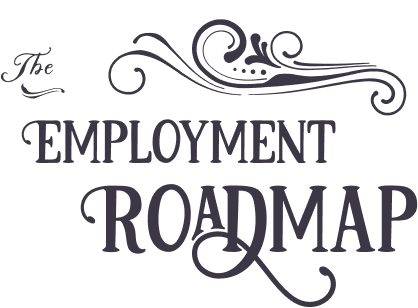
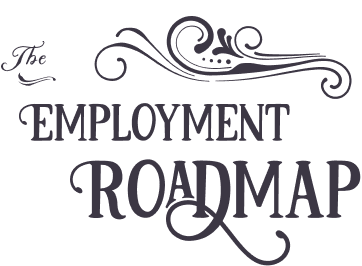
fixed and updated design of milestone map

diff --git a/src/Components/Milestones/MilestoneMap.css b/src/Components/Milestones/MilestoneMap.css
@@ -1,31 +1,13 @@
-.container{
-  /* position:absolute;
-  height: 100%; 
-  width: 100%; */
-}
 .grid-container {
     display: grid;
-    /* grid-template-columns: auto auto auto; */
-    /* grid-template-areas: 'left center right';  */
     grid-template-columns: repeat(3, 1fr);  
     padding: 70px;
-    height: 100vh;  
-    background: rgba(230, 249, 244, 1);
-  }
-  .grid-item {
-    /* border: 1px solid rgba(0, 0, 0, 0.8); */
-    /* padding: 20px;
-    font-size: 30px;
-    text-align: center;
-    position: relative; 
-    left: 5px; 
-    bottom: 10px;  */
-    background: rgba(230, 249, 244, 1);
+    height: 90vh;  
+    background: linear-gradient(180deg, #EFFBFF 0%, #F5F1FF 69.61%, #FFF2F5 100%);
   }
   .map-title {
     grid-area: 2 / 2 / span 2 / span 1; 
   }
-
   #roadmap-title {
     width: fit-content;
     height: fit-content;    
@@ -36,91 +18,73 @@
     right: 0;
     margin: auto;
   }
-  #job-fair {
-    width: fit-content;
-    height: fit-content; 
-    margin-top: -5vh; 
-    margin-left: 8vw; 
+  #assessment {
+    width: fit-content; 
+    height: fit-content;
+    margin-top: -5vh;
+    margin-left: 30vw; 
     position: absolute;
-    /* border: 2px red dotted; */
+  }
+   #online-profile {
+    width: fit-content;
+    height: fit-content;
+    margin-top: -1vh;
+    margin-left: 57vw;
+    position: absolute;
   }
   #training-program {
     width: fit-content; 
     height: fit-content;
-    margin-top: -2vh;
-    margin-left: 30vw; 
+    margin-top: 15vh;
+    margin-left: 65vw; 
     position: absolute;
-    /* border: 2px red dotted; */
   }
   #co-enroll {
     width: fit-content; 
     height: fit-content; 
-    margin-top: -5vh;
-    margin-left: 57vw;
+    margin-top: 40vh;
+    margin-left: 60vw;
     position: absolute;
-    /* border: 2px red dotted;  */
   }
-  #assessment {
-    width: fit-content; 
-    height: fit-content;
-    margin-top: 17vh;  
-    margin-left: -2vw; 
-    position: absolute;
-    /* border: 2px red dotted;  */
-    /* grid-area: left; 
-    margin-left: 20px;
-    margin-right: 20px;
-    margin-top: 100px;
-    margin-bottom: 10px;
-    position: left; 
-    bottom: 100px;
-    right: 10px; */
-  }
-  #hiring-info {
+  #workshop {
     width: fit-content; 
     height: fit-content; 
-    margin-top: 19vh; 
-    margin-left: 65vw;
+    margin-top: 65vh;
+    margin-left: 57vw;
+    position: absolute; 
+  }
+  #internship {
+    width: fit-content;
+    height: fit-content; 
+    margin-top: 65vh; 
+    margin-left: 35vw; 
+    position: absolute; 
+  }
+  #job-fair {
+    width: fit-content;
+    height: fit-content; 
+    margin-top: 75vh; 
+    margin-left: 10vw; 
     position: absolute;
-    /* border: 2px red dotted;  */
   }
   #job-board {
     width: fit-content; 
     height: fit-content; 
     margin-top: 45vh; 
-    margin-left: 3vw;
+    margin-left: 2vw;
     position: absolute; 
-    /* border: 2px red dotted;  */
-  }
-  #internship {
-    width: fit-content;
-    height: fit-content; 
-    margin-top: 43vh; 
-    margin-left: 63vw; 
-    position: absolute; 
-    /* border: 2px red dotted;  */
-  }
-  #workshop {
-    width: fit-content; 
-    height: fit-content; 
-    margin-top: 75vh;
-    margin-left: -2vw;
-    position: absolute; 
-    /* border: 2px red dotted;  */
-  }
-  #online-profile {
-    width: fit-content;
-    height: fit-content;
-    margin-top: 67vh;
-    margin-left: 30vw;
-    position: absolute;
-    /* border: 2px red dotted;  */
   }
   #resource {
     width: fit-content;
     height: fit-content;
-    margin-top: 75vh;
-    margin-left: 53vw;
+    margin-top: 25vh;
+    margin-left: 3vw;
     position: absolute;
-    /* border: 2px red dotted;  */
   }
+  #hiring-info {
+    width: fit-content; 
+    height: fit-content; 
+    margin-top: 1vh; 
+    margin-left: 8vw;
+    position: absolute;
+  } 

diff --git a/src/App.js b/src/App.js
@@ -4,76 +4,42 @@ import {
   Route, Routes,
 } from 'react-router-dom';
 import {
-  Home
+  Home,
+  Login,
+  NavigatorDashboard,
+  Register,
+  Reset,
+  Profile,
 } from './Pages';
 import './App.css';
 import Footer from './Components/Footer/Footer';
-import MilestoneButton from './Components/Milestones/MilestoneButton';
-import MilestoneMap from './Components/Milestones/MilestoneMap';
+import Splash from './Components/Splash';
+import approvalIcon from './Assets/mobile_friendly_24px.png';
 
 function App() {
-  // new stuff
-  // const [image, setImage] = useState(""); 
-  // const addImageHandler = (image) => {
-  //   setImage((prevImage)=> {
-  //     return image; 
-  //   })
-  // }
-  // new stuff
-
   return (
     <div className="App">
       <Routes>
         <Route path="/" element={<Home />} />
-      </Routes> 
+        <Route path="/login" element={<Login />} />
+        <Route path="/register" element={<Register />} />
+        <Route path="/dashboard/navigator" element={<NavigatorDashboard />} />
+        <Route path="/reset" element={<Reset />} />
+        <Route path="/profile" element={<Profile />} />
+        <Route
+          path="/splash"
+          element={(
+            <Splash
+              header="Awaiting Approval"
+              description="You have successfully signed up for an account. Please await approval from a TransCanWork Administator."
+              graphic={<img alt="" src={approvalIcon} />}
+            />
+          )}
+        />
+      </Routes>
       <Footer />
     </div>
   );
 }
 
 export default App;
-
-// import React from 'react';
-// import {
-//   Route, Routes,
-// } from 'react-router-dom';
-// import {
-//   Home,
-//   Login,
-//   NavigatorDashboard,
-//   Register,
-//   Reset,
-//   Profile,
-// } from './Pages';
-// import './App.css';
-// import Footer from './Components/Footer/Footer';
-// import Splash from './Components/Splash';
-// import approvalIcon from './Assets/mobile_friendly_24px.png';
-
-// function App() {
-//   return (
-//     <div className="App">
-//       <Routes>
-//         <Route path="/" element={<Home />} />
-//         <Route path="/login" element={<Login />} />
-//         <Route path="/register" element={<Register />} />
-//         <Route path="/dashboard/navigator" element={<NavigatorDashboard />} />
-//         <Route path="/reset" element={<Reset />} />
-//         <Route path="/profile" element={<Profile />} />
-//         <Route
-//           path="/splash"
-//           element={(
-//             <Splash
-//               header="Awaiting Approval"
-//               description="You have successfully signed up for an account. Please await approval from a TransCanWork Administator."
-//               graphic={<img alt="" src={approvalIcon} />}
-//             />
-//           )}
-//         />
-//       </Routes>
-//       <Footer />
-//     </div>
-//   );
-// }
-
-// export default App;

diff --git a/src/Components/Milestones/MilestoneMap.js b/src/Components/Milestones/MilestoneMap.js
@@ -8,69 +8,69 @@ const data = {
     body: [
       {
         uid: 1,
-        image: require('../../Assets/JobFair.png'),
-        id: 'job-fair',
+        image: require('../../Assets/assessment.png'),
+        id: 'assessment',
         title: '',
       },
       {
         uid: 2,
-        image: require('../../Assets/training.png'),
-        id: 'training-program',
+        image: require('../../Assets/online-profile(b&w).png'),
+        id: 'online-profile',
         title: '',
       },
       {
         uid: 3,
-        image: require('../../Assets/co-enroll.png'),
-        id: 'co-enroll',
+        image: require('../../Assets/training(b&w).png'),
+        id: 'training-program',
         title: '',
       },
       {
         uid: 4,
-        image: require('../../Assets/Assessment.png'),
-        id: 'assessment',
-        // title: ""
+        image: require('../../Assets/co-enroll(b&w).png'),
+        id: 'co-enroll',
+        title: '', 
       },
       {
         uid: 5,
-        image: require('../../Assets/hiring.png'),
-        id: 'hiring-info',
+        image: require('../../Assets/workshop(b&w).png'),
+        id: 'workshop',
         title: '',
       },
       {
         uid: 6,
-        image: require('../../Assets/job-board.png'),
-        id: 'job-board',
+        image: require('../../Assets/internship(b&w).png'),
+        id: 'internship',
         title: '',
       },
       {
         uid: 7,
-        image: require('../../Assets/internships.png'),
-        id: 'internship',
+        image: require('../../Assets/job-fair(b&w).png'),
+        id: 'job-fair',
       },
       {
         uid: 8,
-        image: require('../../Assets/workshop.png'),
-        id: 'workshop',
+        image: require('../../Assets/job-board(b&w).png'),
+        id: 'job-board',
       },
       {
         uid: 9,
-        image: require('../../Assets/online-profile.png'),
-        id: 'online-profile',
+        image: require('../../Assets/resource(b&w).png'),
+        id: 'resource',
       },
       {
         uid: 10,
-        image: require('../../Assets/resource.png'),
-        id: 'resource',
+        image: require('../../Assets/hiring(b&w).png'),
+        id: 'hiring-info',
       },
     ],
   },
 };
 
-const MilestoneButtons = data.content.body.map((x) => <div className="grid-item" key={x.uid} id={x.id}><MilestoneButton title={x.title} image={(x.image)} /></div>);
+const MilestoneButtons = data.content.body.map((x) => <div key={x.uid} id={x.id}><MilestoneButton title={x.title} image={(x.image)} /></div>);
 
 function MilestoneMap() {
   return (
-    <div className="container">
+    <div>
       <div className="grid-container">
         {MilestoneButtons}
       </div>

diff --git a/src/Pages/Home.js b/src/Pages/Home.js
@@ -9,14 +9,3 @@ export default function Home() {
       </div>
     );
   }
-    
-// import React from 'react';
-// import MilestoneMap from '../Components/Milestones/MilestoneMap';
-
-// export default function Home() {
-//   return (
-//     <div>
-//       <MilestoneMap />
-//     </div>
-//   );
-// }
